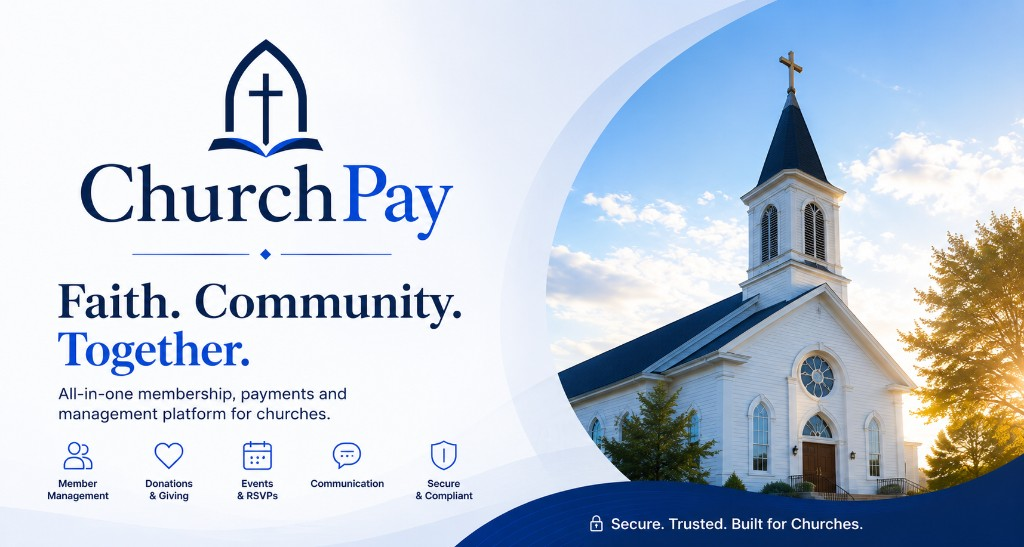
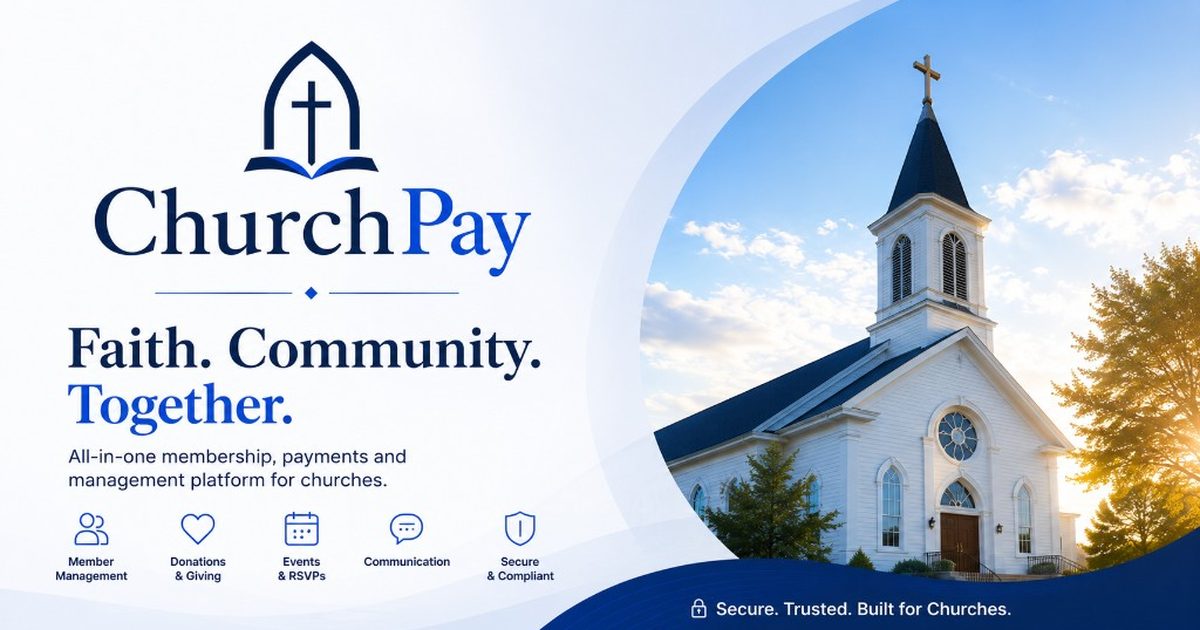
fix(seo): serve social share image as real PNG with domain-relative OG URLs
The og:image pointed at a hardcoded domain and the asset was a JPEG saved
as .png, so social platforms showed a blank preview. Replace with a proper
1200x630 PNG and resolve the URL via metadataBase so it works on any domain.

diff --git a/lib/seo.ts b/lib/seo.ts
@@ -3,12 +3,16 @@ import type { Metadata } from "next";
 export const SITE_ORIGIN = "https://www.churchpay.co.uk";
 
 export const SOCIAL_SHARE_IMAGE = {
-  url: `${SITE_ORIGIN}/social-share.png`,
-  width: 1024,
-  height: 547,
+  url: "/social-share.png",
+  width: 1200,
+  height: 630,
   alt: "ChurchPay - Faith. Community. Together. All-in-one membership, giving, events, and management platform for churches.",
   type: "image/png",
 };
+
+export function socialShareImageUrl(origin: string = SITE_ORIGIN): string {
+  return `${origin.replace(/\/$/, "")}${SOCIAL_SHARE_IMAGE.url}`;
+}
 
 export const CHURCHPAY_KEYWORDS = [
   "church management software",
@@ -99,7 +103,7 @@ export const churchPayStructuredData = {
         "@type": "ImageObject",
         url: `${SITE_ORIGIN}/brand/churchpay-logo.png`,
       },
-      image: SOCIAL_SHARE_IMAGE.url,
+      image: socialShareImageUrl(),
       description:
         "ChurchPay is an all-in-one membership, payments, and management platform for UK churches, charities, and church networks. It brings together church websites, online giving, Gift Aid and GASDS claims, member and newcomer CRM, services and events, pastoral care, and treasurer reporting.",
       areaServed: {
@@ -137,8 +141,8 @@ export const churchPayStructuredData = {
       applicationSubCategory: "Church Management Software",
       operatingSystem: "Web",
       url: SITE_ORIGIN,
-      image: SOCIAL_SHARE_IMAGE.url,
-      screenshot: SOCIAL_SHARE_IMAGE.url,
+      image: socialShareImageUrl(),
+      screenshot: socialShareImageUrl(),
       softwareHelp: `${SITE_ORIGIN}/features`,
       keywords: CHURCHPAY_KEYWORDS.join(", "),
       audience: {

diff --git a/app/(public)/events/[slug]/page.tsx b/app/(public)/events/[slug]/page.tsx
@@ -8,7 +8,7 @@ import * as mockDb from "@/lib/mock-db";
 import { EventRsvpForm } from "@/components/forms/event-rsvp-form";
 import { ArrowLeft, Calendar, MapPin, Clock, Users } from "lucide-react";
 import { getDefaultChurchSlug, resolveChurchSlug } from "@/lib/tenant";
-import { SOCIAL_SHARE_IMAGE, SITE_ORIGIN } from "@/lib/seo";
+import { socialShareImageUrl, SITE_ORIGIN } from "@/lib/seo";
 import { churchScopedEventPath, churchScopedEventsPath } from "@/lib/public-links";
 import { isPubliclyVisible } from "@/lib/events/public-visibility";
 
@@ -48,7 +48,7 @@ export async function generateMetadata({
   const canonical = `${siteUrl()}/events/${slug}${
     churchSlug !== getDefaultChurchSlug() ? `?church=${encodeURIComponent(churchSlug)}` : ""
   }`;
-  const imageUrl = event.featured_image_url || SOCIAL_SHARE_IMAGE.url;
+  const imageUrl = event.featured_image_url || socialShareImageUrl(siteUrl());
   return {
     title: event.title,
     description,

diff --git a/app/(public)/news/[slug]/page.tsx b/app/(public)/news/[slug]/page.tsx
@@ -7,7 +7,7 @@ import * as db from "@/lib/db";
 import * as mockDb from "@/lib/mock-db";
 import { ArrowLeft, User, Calendar } from "lucide-react";
 import { getDefaultChurchSlug, resolveChurchSlug } from "@/lib/tenant";
-import { SOCIAL_SHARE_IMAGE, SITE_ORIGIN } from "@/lib/seo";
+import { socialShareImageUrl, SITE_ORIGIN } from "@/lib/seo";
 
 async function loadPost(slug: string, churchSlug: string) {
   if (isSupabaseConfigured()) {
@@ -39,7 +39,7 @@ export async function generateMetadata({
   const description =
     post.excerpt ||
     `Read ${post.title} and other updates from ChurchPay and church websites.`;
-  const imageUrl = post.featured_image_url || SOCIAL_SHARE_IMAGE.url;
+  const imageUrl = post.featured_image_url || socialShareImageUrl();
 
   return {
     title: post.title,

diff --git a/app/layout.tsx b/app/layout.tsx
@@ -7,7 +7,6 @@ import { PageViewTracker } from "@/components/telemetry/page-view-tracker";
 import {
   churchPayStructuredData,
   marketingMetadata,
-  SOCIAL_SHARE_IMAGE,
   SITE_ORIGIN,
 } from "@/lib/seo";
 
@@ -71,11 +70,6 @@ export const metadata: Metadata = {
     url: false,
   },
   other: {
-    "og:image:secure_url": SOCIAL_SHARE_IMAGE.url,
-    "og:image:alt": SOCIAL_SHARE_IMAGE.alt,
-    "og:image:type": SOCIAL_SHARE_IMAGE.type,
-    "og:image:width": String(SOCIAL_SHARE_IMAGE.width),
-    "og:image:height": String(SOCIAL_SHARE_IMAGE.height),
     "article:publisher": SITE_ORIGIN,
     // Hint to Chromium PWAs that landscape is also acceptable on tablets.
     "mobile-web-app-capable": "yes",
